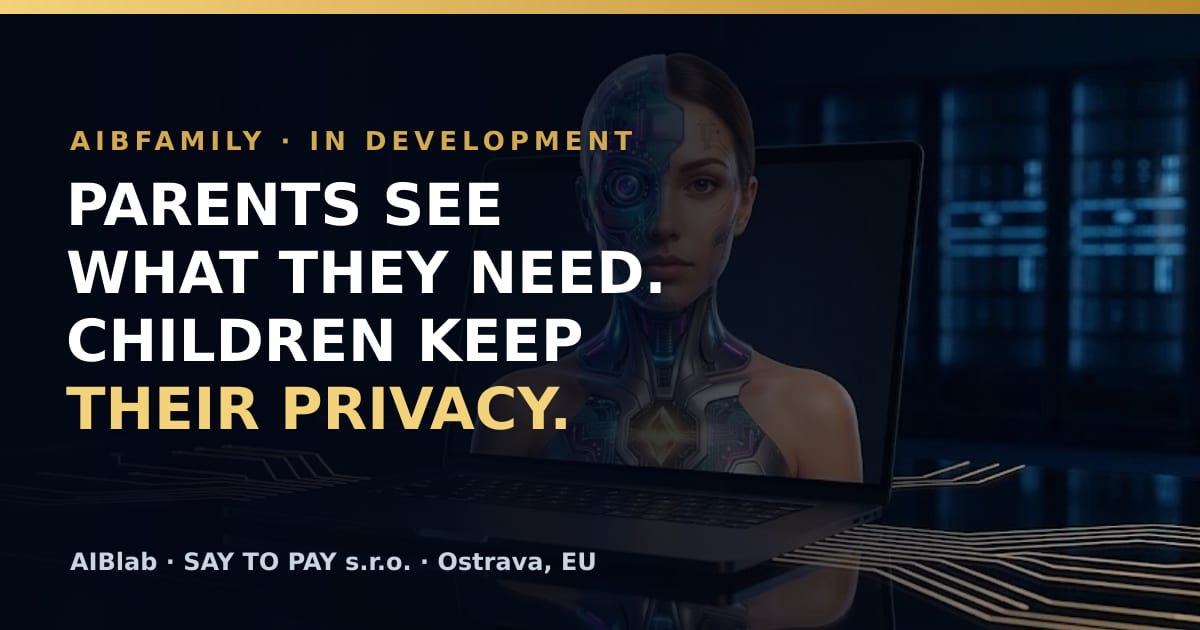
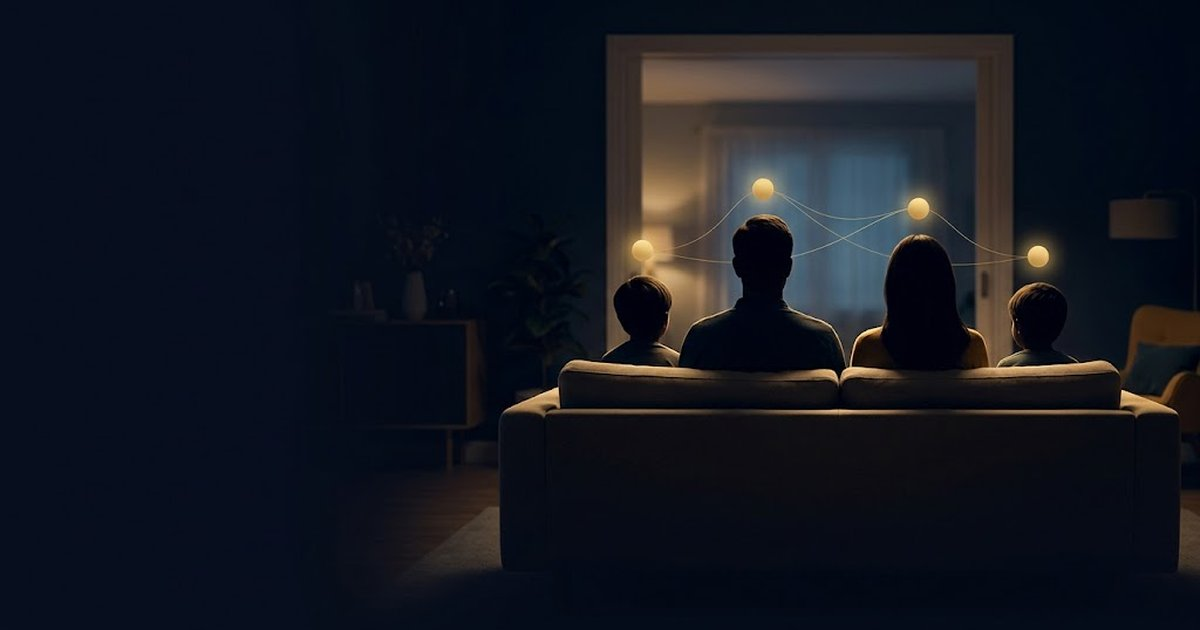
aibfamily.cloud: own images (hero, how, seven layers, contact, AIBEVA, og-image)
Claude-Session: https://claude.ai/code/session_01SmSprU9MtXVSg4Y7tx6CBx

diff --git a/components/How.tsx b/components/How.tsx
@@ -1,3 +1,5 @@
+import { IMAGES } from "./images";
+
 const points = [
   { title: "One being per person.",
     text: "Every family member has their own AIB, with their own identity and their own memory. Nobody shares a being — and nobody reads someone else’s." },
@@ -20,6 +22,14 @@ export default function How() {
         <p className="text-slate-300 text-lg sm:text-xl leading-relaxed max-w-2xl mb-12">
           No family account that reads everything. Each being answers to its own person — and the family decides together what is shared.
         </p>
+        <img
+          src={IMAGES.famHow.src}
+          alt="Four golden spheres, each in its own shell, linked only through small gates"
+          width={IMAGES.famHow.width}
+          height={IMAGES.famHow.height}
+          loading="lazy"
+          className="w-full h-auto max-h-[420px] object-cover rounded-2xl border border-white/[0.08] mb-10 sm:mb-12"
+        />
         <ol className="grid md:grid-cols-2 gap-4 sm:gap-5">
           {points.map((p, i) => (
             <li key={p.title} className="rounded-2xl border border-white/[0.1] bg-navy-900 p-6 sm:p-7 flex gap-5 min-w-0">

diff --git a/components/Contact.tsx b/components/Contact.tsx
@@ -1,9 +1,18 @@
 import { AIBLAB } from "@/lib/links";
+import { IMAGES } from "./images";
 
 export default function Contact() {
   return (
     <section id="contact" aria-labelledby="contact-title" className="bg-navy-900 border-y border-white/[0.06] scroll-mt-16">
       <div className="max-w-6xl mx-auto px-4 sm:px-6 py-16 sm:py-24 grid lg:grid-cols-2 gap-10 lg:gap-16 items-center">
+        <img
+          src={IMAGES.famContact.src}
+          alt="A family kitchen table at night under a warm lamp, with a soft golden network above it"
+          width={IMAGES.famContact.width}
+          height={IMAGES.famContact.height}
+          loading="lazy"
+          className="lg:col-span-2 w-full h-auto max-h-[440px] object-cover rounded-2xl border border-white/[0.08]"
+        />
         <div className="min-w-0">
           <p className="kicker">Contact</p>
           <h2 id="contact-title" className="headline text-white text-[2.4rem] sm:text-6xl mb-6">

diff --git a/components/Hero.tsx b/components/Hero.tsx
@@ -4,11 +4,11 @@ export default function Hero() {
   return (
     <section className="relative overflow-hidden bg-navy-950">
       <img
-        src={IMAGES.yourPc.src}
-        alt="An AIB lives on your own computer"
-        width={IMAGES.yourPc.width}
-        height={IMAGES.yourPc.height}
-        className="absolute inset-0 w-full h-full object-cover object-[75%_center] opacity-35 lg:opacity-60"
+        src={IMAGES.famHero.src}
+        alt="A family on a sofa, each person with their own golden AIB"
+        width={IMAGES.famHero.width}
+        height={IMAGES.famHero.height}
+        className="absolute inset-0 w-full h-full object-cover object-[80%_center] opacity-35 lg:opacity-60"
       />
       <div className="absolute inset-0 bg-gradient-to-r from-navy-950 via-navy-950/85 to-navy-950/30 pointer-events-none" />
       <div className="absolute inset-x-0 bottom-0 h-40 bg-gradient-to-t from-navy-950 to-transparent pointer-events-none" />

diff --git a/components/GetAibeva.tsx b/components/GetAibeva.tsx
@@ -18,12 +18,12 @@ export default function GetAibeva({
   return (
     <section id="aibeva" aria-labelledby="aibeva-title" className="relative overflow-hidden bg-navy-950 scroll-mt-16">
       <img
-        src={IMAGES.yourPc.src}
+        src={IMAGES.famAibeva.src}
         alt="Your AIB lives on your own computer"
-        width={IMAGES.yourPc.width}
-        height={IMAGES.yourPc.height}
+        width={IMAGES.famAibeva.width}
+        height={IMAGES.famAibeva.height}
         loading="lazy"
-        className="absolute inset-0 w-full h-full object-cover object-right opacity-60"
+        className="absolute inset-0 w-full h-full object-cover object-left opacity-70"
       />
       <div className="absolute inset-0 bg-gradient-to-r from-navy-950 via-navy-950/90 to-navy-950/40 pointer-events-none" />
       <div className="relative max-w-6xl mx-auto px-4 sm:px-6 py-20 sm:py-28">

diff --git a/components/images.ts b/components/images.ts
@@ -5,6 +5,12 @@ export const IMAGES = {
   yourPc:     { src: "/images/your-aib-on-your-pc.webp", width: 1024, height: 434 },
   guardian:   { src: "/images/guardian-shield.webp",     width: 1024, height: 572 },
   core:       { src: "/images/aib-core-module.webp",     width: 1600, height: 873 },
+  // AIBfamily-only images (4 Oct 2026)
+  famHero:    { src: "/images/aibfamily-hero.webp",      width: 1024, height: 572 },
+  famHow:     { src: "/images/aibfamily-how.webp",       width: 1024, height: 687 },
+  famLayers:  { src: "/images/aibfamily-layers.webp",    width: 687,  height: 1024 },
+  famContact: { src: "/images/aibfamily-contact.webp",   width: 1024, height: 687 },
+  famAibeva:  { src: "/images/aibfamily-aibeva.webp",    width: 1024, height: 434 },
 };
 
 export const CORE_CAPTION = "Concept visual — AIB.core hardware edition, in development.";

diff --git a/components/Safe.tsx b/components/Safe.tsx
@@ -46,10 +46,10 @@ export default function Safe({ highlight, intro }: { highlight?: LayerName; intr
         <div className="grid lg:grid-cols-[minmax(0,5fr)_minmax(0,8fr)] gap-6 lg:gap-8 items-start">
           <div className="lg:sticky lg:top-24 min-w-0">
             <img
-              src={IMAGES.safeLayers.src}
-              alt="Seven layers of AIB.core around one core"
-              width={IMAGES.safeLayers.width}
-              height={IMAGES.safeLayers.height}
+              src={IMAGES.famLayers.src}
+              alt="Seven gold rings of AIB.core around a home"
+              width={IMAGES.famLayers.width}
+              height={IMAGES.famLayers.height}
               loading="lazy"
               className="w-full h-auto max-h-[420px] lg:max-h-none object-cover rounded-2xl border border-white/[0.08]"
             />
